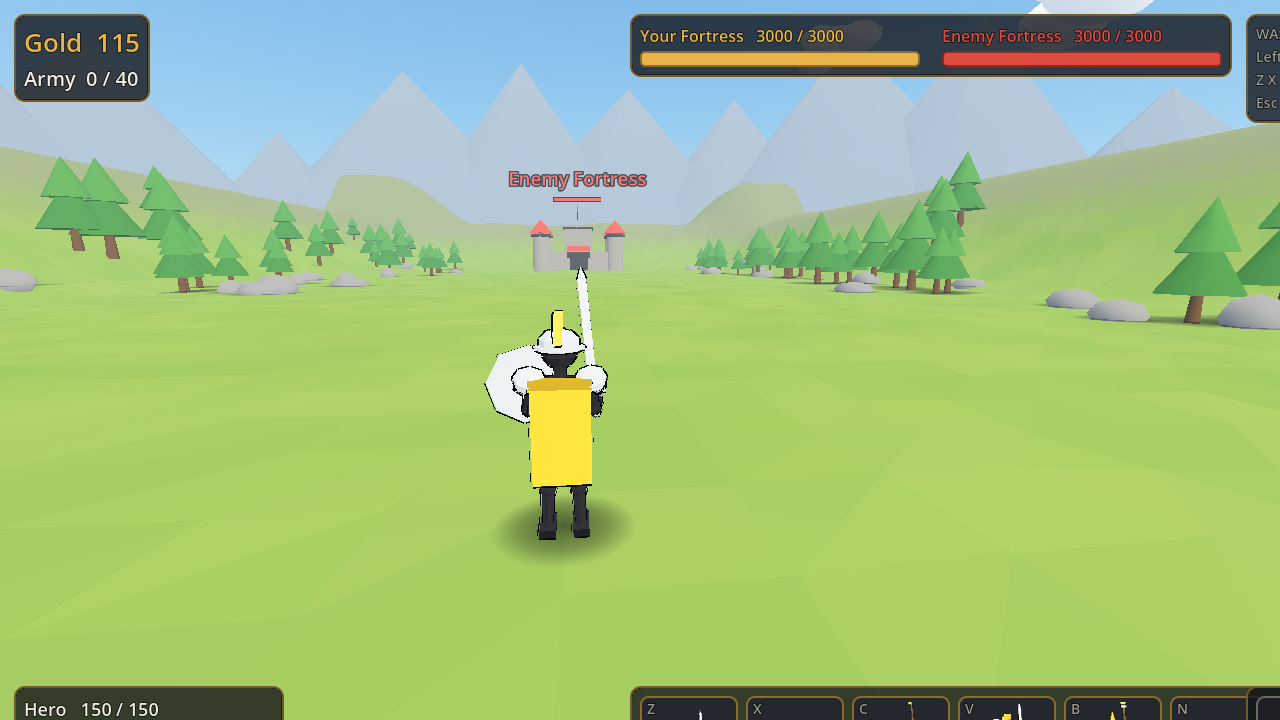
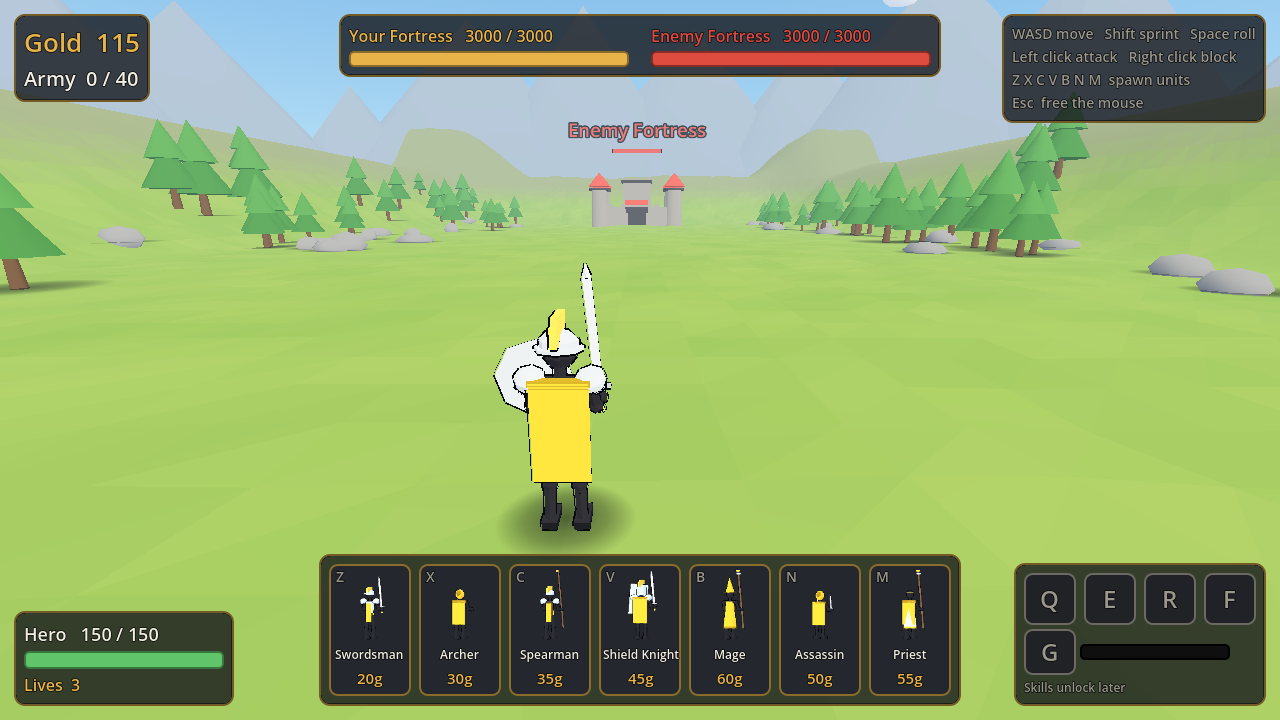
Step 5: HUD, gold economy, population cap, spawn buttons

diff --git a/STORY.md b/STORY.md
@@ -1,0 +1,89 @@
+# STORY.md — Stick Legion
+
+## Presentation
+- Story is told with **story cards**: a short in-engine scene using the real 3D stickmen and props, posed
+  (no complex animation), with a slow camera pan and 1–3 lines of text at the bottom. Click/tap to advance, Skip button.
+- Cards play: before Chapter 1 (prologue), before each chapter's first level, after each boss, and the ending.
+- Bosses get a short taunt banner when they appear, and one line when defeated.
+- Mark cards as seen in the save file. A "Story" button on the main menu replays any seen card.
+- English only. Keep every line short (max ~20 words).
+
+## Setting
+The kingdom of **Aurum**: green valleys, stone fortresses, gold banners.
+The enemy is the **Crimson Host**, an army in dark iron and red cloth that came out of the eastern mountains.
+
+## Characters
+- **Aldric** (the player hero): captain of Aurum's last legion. Gold scarf, steel armour, longsword.
+- **Corvin**: Aldric's older brother. Once Aurum's greatest general. Now the **Crimson King**.
+  Taller than Aldric, dark iron armour, red cape, a black greatsword.
+- **King Edmar**: the old king of Aurum. Only appears in the prologue and the Chapter 3 reveal.
+- **Mira**: the legion's quartermaster. Gives the player tips and short lines between chapters.
+
+## Prologue (before Level 1)
+1. *Aurum's capital burns. Gold banners fall.* — "Aurum has fallen. The Crimson Host came from the east, and no wall could stop them."
+2. *Aldric stands alone in the ashes, holding a torn gold banner.* — "One captain survived. One banner still stands."
+3. *Mira and a handful of soldiers gather around him.* — Mira: "Captain, we're all that's left. Tell us where to march."
+4. *Aldric raises the banner.* — Aldric: "We take it back. One valley at a time."
+
+## Chapter 1 — The Green Valleys (Levels 1–5)
+Intro card: *A small border village under red banners.* — "Every village we free joins the legion."
+- Lvl 1–4: tutorial-paced battles, new units unlock (archer lvl 2, spearman lvl 3, shield knight lvl 4).
+- **Boss lvl 5 — Grask the Butcher**: a huge brute with two cleavers. Charges in straight lines, spins.
+  - Appears: "Little gold soldier. I've butchered better."
+  - Defeated: "The King... will finish... what I started."
+- After boss card: *Grask's red banner burns.* — Mira: "He said 'the King'. The Host has a king?"
+
+## Chapter 2 — The Iron Pass (Levels 6–10)
+Intro card: *A mountain pass blocked by a red siege fortress.* — "To reach the heart of Aurum, we must break the Iron Pass."
+- New units: mage (lvl 6), assassin (lvl 7), priest (lvl 8).
+- **Boss lvl 10 — Siege Master Volk**: rides a giant siege engine, fires boulders (telegraphed red circles), calls catapults.
+  - Appears: "Walls, armies, kings. I've crushed all three."
+  - Defeated: "You fight like him. Like the King. Same eyes."
+- After boss card: *Aldric finds a gold-and-red medallion on Volk's engine. It's an Aurum general's medal.* — Aldric: "This belonged to an Aurum general... Only one general ever wore this."
+
+## Chapter 3 — The Burning Fields (Levels 11–15)
+Intro card: *Golden wheat fields on fire.* — "The Host burns everything it cannot hold."
+- New units: giant (lvl 11), cavalry (lvl 12), catapult (lvl 13).
+- **Boss lvl 15 — The Twin Blades, Sera and Kade**: two fast duelists fighting together. When one falls, the other enrages.
+  - Appear: "The Crimson King sends his regards, little brother of his."
+  - Defeated: "Ask your old king... what he did to Corvin."
+- **Reveal cards** (after boss):
+  1. *Flashback, warmer colours: young Aldric and Corvin training side by side.* — "Corvin. My brother. Aurum's greatest general."
+  2. *King Edmar on his throne, Corvin kneeling.* — "When the eastern war was won, the King feared him. He called him a traitor and sent him to die in the mountains."
+  3. *Corvin alone in the snow, red cloth wrapped around a wound.* — "He didn't die. He came back with an army."
+  4. *Present day. Aldric holds the medallion.* — Aldric: "The Crimson King... is Corvin."
+
+## Chapter 4 — The Crimson Throne (Levels 16–20)
+Intro card: *The ruined capital, now under red banners. A dark throne in the old palace.* — "The road ends where it began. At home."
+- Hardest battles: mixed enemy armies, bigger waves, enemy gets every unit type.
+- Mira (before lvl 18): "Whatever he was to you, Captain, the legion follows you. Not him."
+- **Boss lvl 20 — Corvin, the Crimson King**: 3 phases.
+  - Phase 1: greatsword combos, ground slam.
+  - Phase 2 (66%): summons a ring of red elite guards.
+  - Phase 3 (33%): fights alone, faster, desperate. Red sky.
+  - Appears: "Little brother. You picked up the banner I dropped."
+  - Phase 3: "Aurum threw me away! Why do you still bleed for it?"
+- **Final choice card** (after he's defeated): *Corvin on one knee, sword broken. Aldric stands over him.*
+  Two buttons: **Spare him** / **End it**.
+
+## Endings
+**Spare him**
+1. *Aldric lowers his sword and offers his hand.* — Aldric: "Aurum wronged you. Help me build a better one."
+2. *Gold and red banners side by side over the rebuilt capital.* — "The two armies became one legion. The brothers rebuilt Aurum together."
+3. — "THE END. Ending: Brothers"
+
+**End it**
+1. *Aldric strikes. The red banner falls.* — Corvin: "...You were always the loyal one."
+2. *Aldric alone on the throne steps at sunset, gold banner raised.* — "Aurum was free. But its captain never smiled again."
+3. — "THE END. Ending: The Crown"
+
+Both endings unlock **Endless Mode** and show credits: "A game by Junyuan".
+Save which endings were seen; show "Endings 1/2" or "2/2" on the main menu.
+
+## Mira's tips (random line on the level-select screen)
+- "Spearmen eat giants for breakfast."
+- "Shield knights block arrows. Put them in front."
+- "Hold Tab to see the whole battle."
+- "Priests behind the front line keep everyone alive longer."
+- "Catapults are slow, but fortresses hate them."
+- "Use Follow and lead the charge yourself."

diff --git a/PROGRESS.md b/PROGRESS.md
@@ -34,7 +34,7 @@
   and enemy spawner exist (steps 5-6) the battle auto-spawns a swordsman per team every 2.5 s (max 14 each) so you can watch
   armies fight; the hero can join in (`hittable_enemy` group). Scripted test: `godot --path . -- --battle-test` (two armies of 10,
   saves `screenshots/step4_*.png`, prints BATTLE-TEST counts; stays at 60 fps).
-- **Step 5: HUD (IN PROGRESS, not finished)** — economy (`data/economy.gd`, `scripts/army_manager.gd`: gold +10/s, kill rewards, pop cap 40,
-  spawning), unit portrait icons (`scripts/unit_icons.gd`), HUD (`scripts/hud.gd`), `--hud-test` scripted check. Logic verified
-  (buying, gold/pop limits, hotkey Z). KNOWN BUG: bottom panels (hero HP, spawn buttons, skills) and the top-right hint are
-  positioned partly off-screen at 1280x720 (anchor presets applied before sizing). Needs fixing and a fresh screenshot check.
+- **Step 5: HUD** — gold (+10/s, kill rewards = half the enemy unit cost), population cap 40, fortress HP bars, hero HP + lives,
+  spawn buttons with rendered unit portraits (hotkeys Z X C V B N M, dimmed when unaffordable, toast "Not enough gold" / "Population full"),
+  skill slots Q E R F + G rage bar (placeholders until step 9). Panels are pinned to screen corners so they never go off-screen.
+  Mouse is captured while playing: Esc frees it so the buttons can be clicked. Test: `godot --path . -- --hud-test` (saves `screenshots/step5_*.png`).
